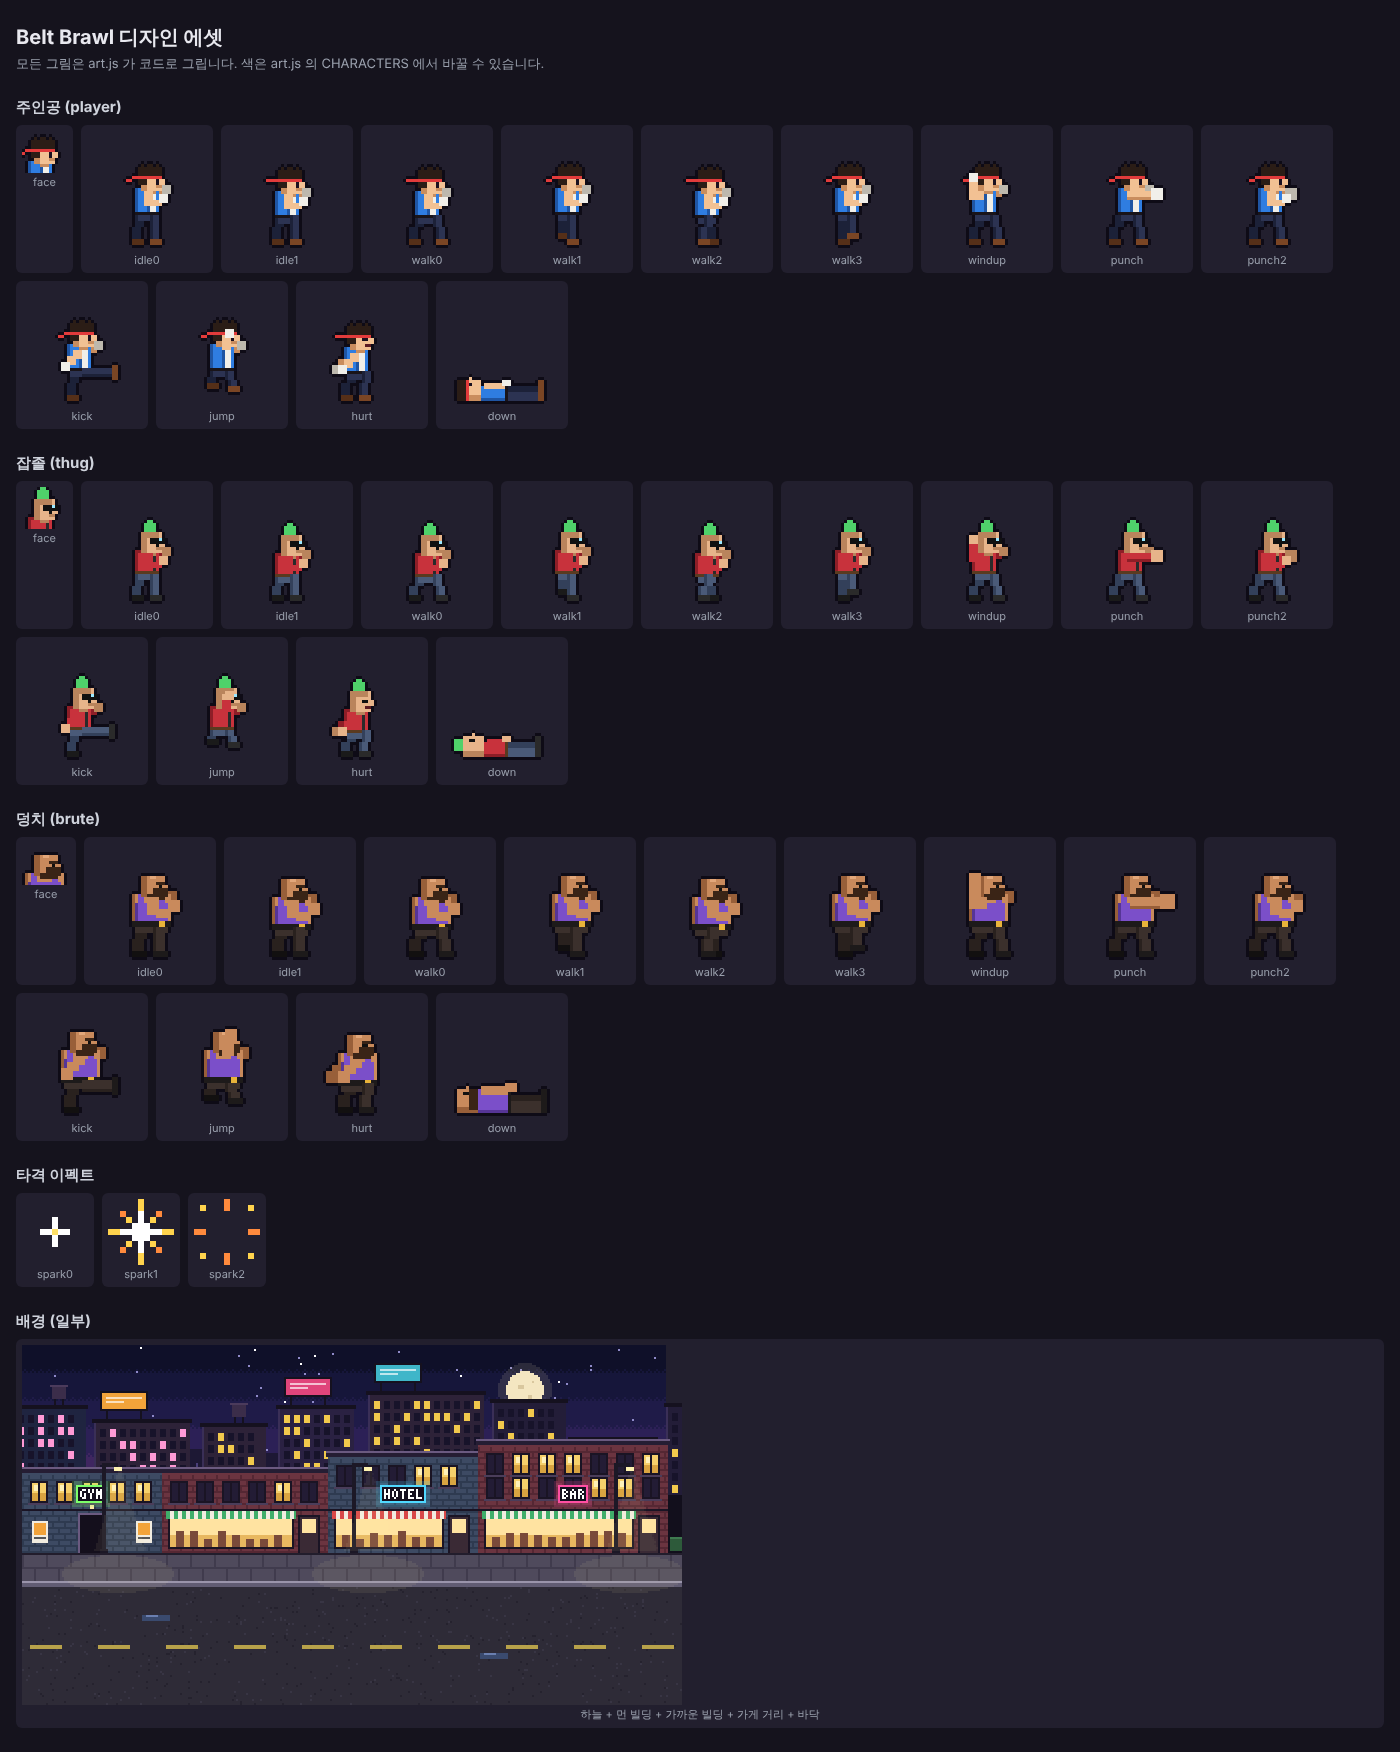
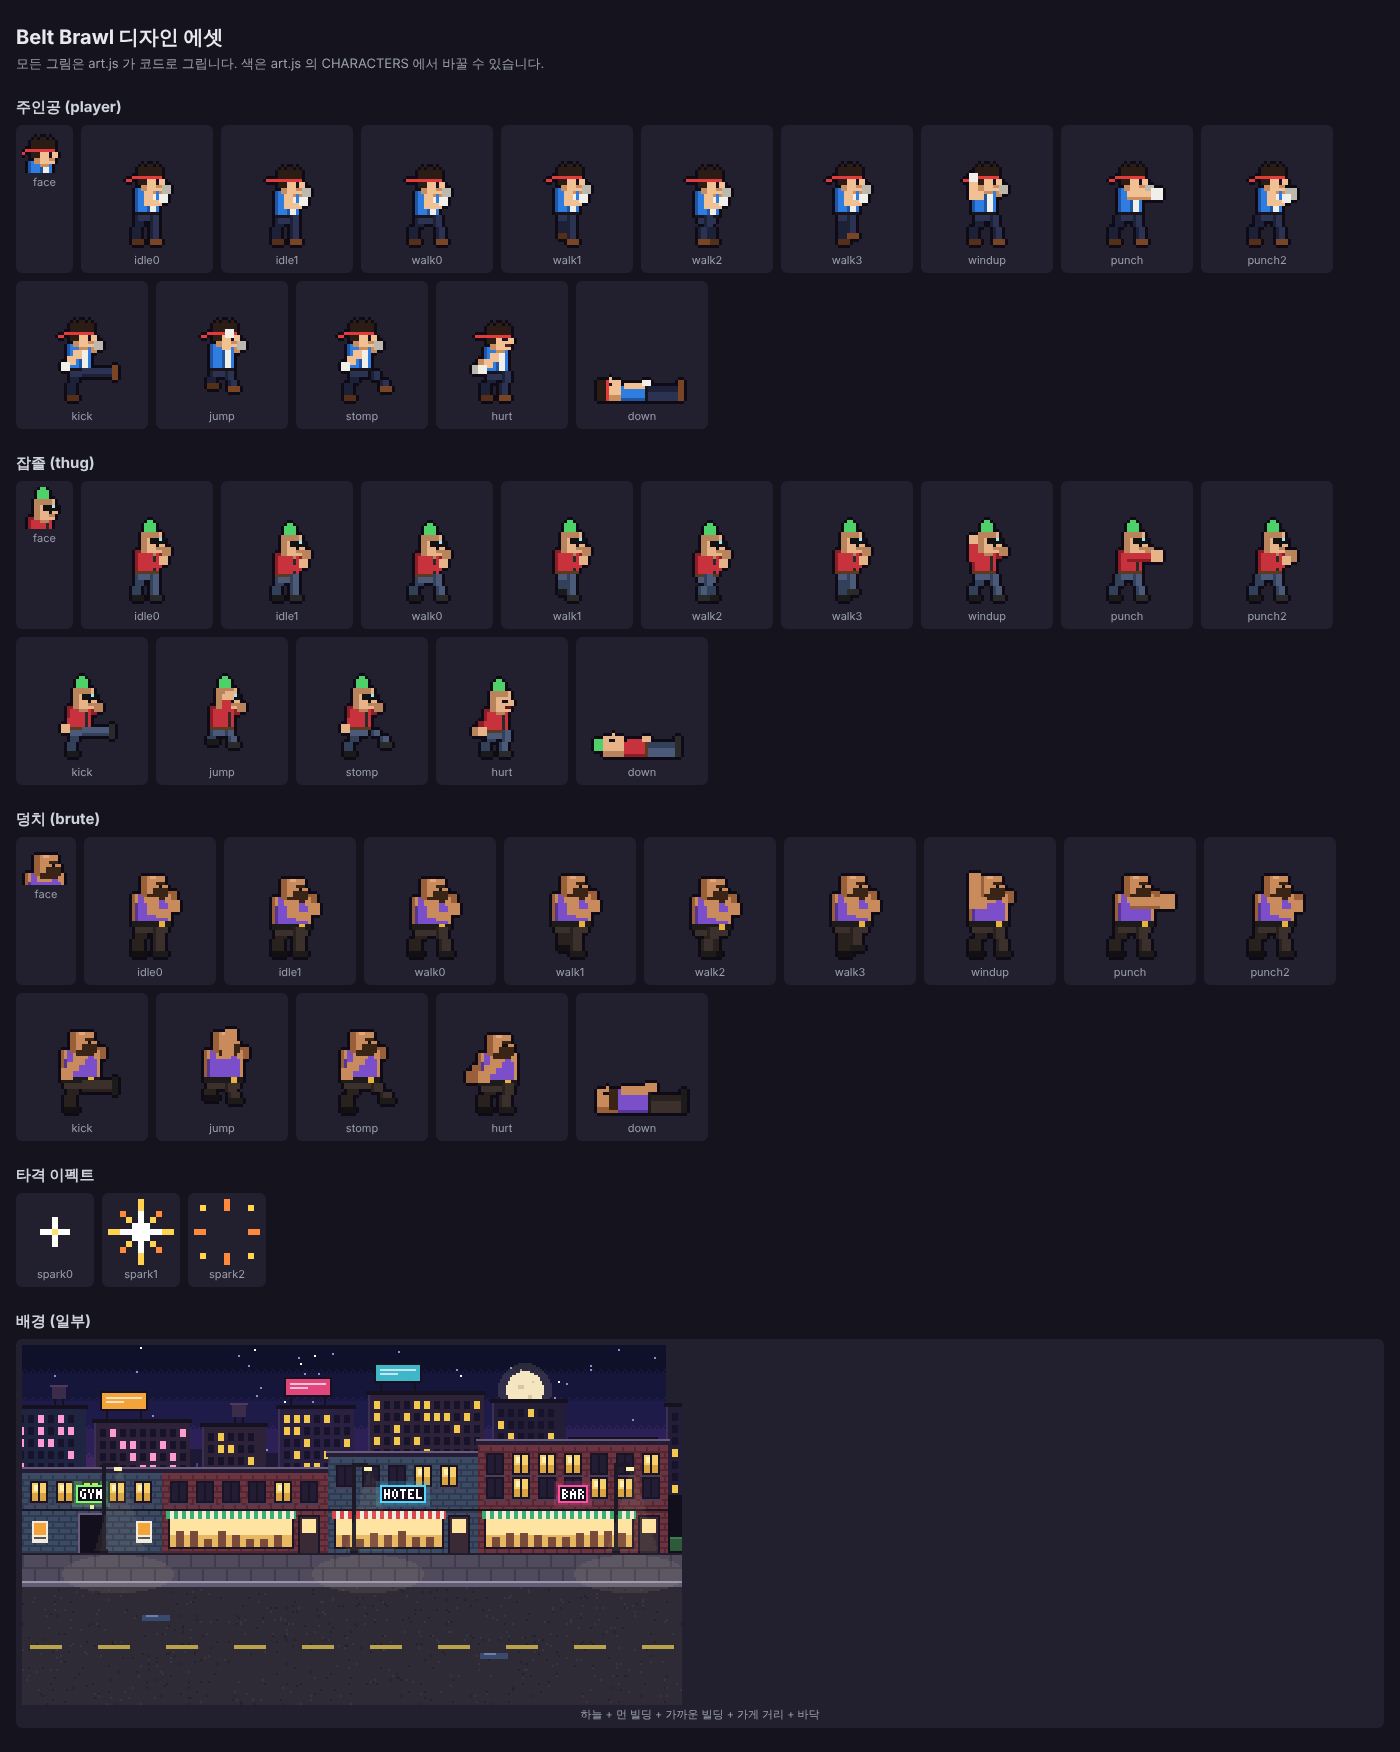
beltscroll 4단계 후속: 오너 결정 반영 (director 검수 전)
- 화면에 안 들어온 적·주인공과 겹친 적은 공격 준비 안 함, 접근 위치를 화면 안 옆자리로
- 추가타 내려찍기 포즈(art.js stomp) 추가
- 점프 공격 명중 뒤 공중 Z → 착지 경직 끝에 1타
- CLAUDE.md 사거리 여유 규칙에 공격 예고 중인 적 예외, decisions.md 6건, 점검표 후속

Claude-Session: https://claude.ai/code/session_0145PX3tFn2de4wdGysM1gpi

diff --git a/beltscroll/index.html b/beltscroll/index.html
@@ -216,7 +216,7 @@ const ENEMY_AI = {
 const GETUP_INVULN = 20;   // 일어난 뒤 무적 프레임 (적·주인공)
 const LANDING_LAG = 6;     // 점프 착지 후 아무것도 못 하는 프레임 (점프가 공짜 회피가 되지 않게)
 // 쓰러진 적 추가타: 아래 + Z. 다운당 1회, 다운 시간을 늘리지 않는다
-const STOMP = { pose: 'kick', prep: 6, active: 4, recover: 10, reach: 48, dmg: 10, step: 0, heavy: false, otg: true };
+const STOMP = { pose: 'stomp', prep: 6, active: 4, recover: 10, reach: 48, dmg: 10, step: 0, heavy: false, otg: true };
 // 점프 공격: 공중에서 Z. 점프당 1회. 준비 뒤 착지할 때까지 발을 뻗고 있고 처음 맞는 순간 1번 판정 (heavy, 넘어뜨림)
 const JUMP_KICK = { prep: 3, reach: 50, zReach: 75, dmg: 14 };
 
@@ -485,6 +485,7 @@ function update() {
     slide(p);
   }
   // 선입력: 판정 프레임부터 공격이 끝날 때까지 누른 공격을 기억했다가 끝나는 즉시 다음 타로 (히트스톱 중에도 포착)
+  if (hit('KeyZ', 'KeyJ') && p.z > 0 && p.jumpKick && p.jumpKick.hit) p.buffered = true;   // 점프 공격이 맞은 뒤 공중에서 누른 Z → 착지 경직 끝에 1타
   if (hit('KeyZ', 'KeyJ') && p.attack > 0) {
     const a = p.move;
     if (p.attack <= attackTotal(a) - a.prep) p.buffered = true;
@@ -551,7 +552,9 @@ function update() {
     e.dir = dx > 0 ? 1 : -1;
 
     // 플레이어 옆 자리(좌 또는 우)로 접근
-    const wantX = p.x - e.dir * ENEMY_STOP;
+    // 주인공 옆자리로 접근. 그 자리가 화면 밖이면 반대쪽 옆자리로 (화면 밖에서 서성이거나 주인공과 겹쳐 서지 않게)
+    let wantX = p.x - e.dir * ENEMY_STOP;
+    if (wantX < cam + 20 || wantX > cam + W - 20) wantX = p.x + e.dir * ENEMY_STOP;
     const ddx = wantX - e.x;
     // 주인공 공격의 회수 구간·착지 경직에만 빨라진다 (헛손질을 노린다)
     const recovering = (p.attack > 0 && p.attack <= ENEMY_AI.punishWindow) || p.landLag > 0;   // 착지 경직도 회수 구간
@@ -566,7 +569,7 @@ function update() {
     const alive = enemies.filter(o => !o.dead).length;
     const attackers = enemies.filter(o => !o.dead && o.attack > 0).length;
     const maxA = alive >= ENEMY_AI.crowdSize ? ENEMY_AI.maxAttackersCrowd : ENEMY_AI.maxAttackers;
-    if (Math.abs(dx) <= ENEMY_AI.attackStart && Math.abs(dy) < 16 && e.cooldown <= 0 && e.invuln === 0 && p.down === 0 && attackers < maxA) {   // 기상 무적 중엔 공격도 안 한다
+    if (Math.abs(dx) <= ENEMY_AI.attackStart && Math.abs(dx) >= ENEMY_AI.lungeMinGap && Math.abs(dy) < 16 && e.cooldown <= 0 && e.invuln === 0 && e.entered && p.down === 0 && attackers < maxA) {   // 화면에 들어온 적만, 주인공과 겹쳐 있지 않을 때만, 기상 무적 중엔 안 함
       e.dir = dx > 0 ? 1 : -1;
       e.attack = e.windup;
       e.cooldown = 90 + Math.floor(Math.random() * 60);

diff --git a/beltscroll/art.js b/beltscroll/art.js
@@ -85,6 +85,7 @@ const ART = (() => {
     punch2: { near: [3, 0],  far: [-3, 0], arm: 'guard',  farArm: 'punch', lean: 1 },
     kick:   { near: 'kick',  far: [-2, 0], arm: 'back',   farArm: 'guard', lean: -1 },
     jump:   { near: [2, 3],  far: [-2, 4], arm: 'up',     farArm: 'guard' },
+    stomp:  { near: [6, 3],  far: [-3, 0], arm: 'back',   farArm: 'guard', lean: -1 },   // 쓰러진 적 내려찍기 (4단계 추가)
     hurt:   { near: [-1, 0], far: [-4, 0], arm: 'back',   farArm: 'back',  lean: -2, bob: 1, face: 'hurt' },
   };
 

diff --git a/beltscroll/docs/stage4-overlap.md b/beltscroll/docs/stage4-overlap.md
@@ -21,3 +21,12 @@ director 1차 검수(조건부 통과) 뒤 코드와 대조해 고쳤다.
 아직 처리 안 한 겹침 (오너 판단 대기): 화면에 아직 안 들어온 적(`entered=false`)도 공격 준비·돌진을 할 수 있다 → 보이지 않는 적에게 맞을 수 있음. 시야 폭(검은 띠) 결정과 함께 오너 보고에 올림.
 
 위치를 바꾸는 줄 실행 순서: 주인공 이동 → 주인공 전진 → 주인공 미끄러짐 → 주인공 화면 제한 → 적마다 [미끄러짐 → 화면 제한 → (공격 중) 돌진 → 화면 제한 → (걷기) 이동 → 화면 제한] → 적끼리 밀기 → 적 화면 제한.
+
+## 4단계 후속 (오너 결정 반영, 2026-10-27)
+
+| 새 상태 | 설정 / 진행 / 비움 | 그 상태 중 입력 | 그 캐릭터 공격 | 겹침 처리 | 증명 |
+|---|---|---|---|---|---|
+| 적 접근 위치 화면 안 제한 | 매 프레임 접근 목표 계산 | — | — | 주인공 옆자리가 화면 밖이면 반대쪽 옆자리로 (주인공과 겹쳐 서지 않게) / 화면 제한 `keepOnScreen` 와 별개로 목표만 바꿈 | s4f #1, #2 |
+| 안 들어온 적 공격 금지 (`entered` 전) | 공격 준비 시작 조건 | — | **화면에 들어오기 전엔, 그리고 주인공과 20px 안으로 겹쳐 있을 땐 공격 준비 안 함** (먼저 옆자리로 비켜섬) | 동시 공격 수에 안 셈(준비 자체를 안 하니까) / 웨이브 시작 시 적은 화면 밖에서 등장 | s4f #1 |
+| 점프 공격 명중 뒤 공중 Z 선입력 | 점프 공격 명중 후 공중에서 Z (히트스톱 중 포함) / — / 공격 시작·피격 | 공중 Z → 기억 | 착지 경직 끝에 1타 | 착지 경직 선입력과 같은 길로 나감 / 공중에서 맞으면 피격이 비움 / 명중 전 공중 Z 는 지금처럼 무시(점프당 1회) | s4f #3 |
+| 추가타 포즈 `stomp` | 추가타 타격·회수 초반 | — | — | 준비 구간은 기존 규칙대로 windup / 그림 구조·픽셀 크기 그대로, 포즈 1개 추가 | 화면 확인 |

diff --git a/beltscroll/CLAUDE.md b/beltscroll/CLAUDE.md
@@ -22,7 +22,7 @@
 - art.js에 이미 있는 포즈(예: windup)를 먼저 찾아 쓰고, 새 포즈는 꼭 필요할 때만 만든다.
 
 ## 4. 손맛 설계 규칙과 검수
-- 사거리 여유 규칙: 적이 플레이어 앞에서 자연스럽게 멈추는 거리와 약공격 사거리 사이에 8px 이상 여유를 둔다. 제자리 연타가 헛스윙하면 버그다.
+- 사거리 여유 규칙: 적이 플레이어 앞에서 자연스럽게 멈추는 거리와 약공격 사거리 사이에 8px 이상 여유를 둔다. 제자리 연타가 헛스윙하면 버그다. 단, 공격을 예고 중인 적(예고 시작 거리 `ENEMY_AI.attackStart`)은 예외다 — 한 걸음 들어가 치거나 물러나 피하는 상황이다 (2026-10-27 오너 결정).
 - 넉백은 비율이 아니라 역할로 정한다: 약공격은 적이 다음 타 사거리 안에 남는 거리, 피니시(3타·점프 공격·사망 타격)는 확실히 날아가는 거리.
 - 흔들림은 무작위 떨림이 아니라 타격 방향으로 한 번 밀린 뒤 돌아오는 카메라 킥으로 한다. 무작위 떨림은 폭발 같은 연출에만 쓴다.
 - 보고할 때 타격감은 숫자로 적는다: 히트스톱 프레임 수, 카메라 킥 세기·지속, 넉백 거리.

diff --git a/beltscroll/docs/decisions.md b/beltscroll/docs/decisions.md
@@ -19,3 +19,9 @@
 - 2026-10-27 / 오너 요청: 잡아 던지기 기술이 있으면 좋겠다. (범위·단계 배치는 오너 확인 중)
 - 2026-10-27 / 잡아 던지기: 4단계 뒤 별도 단계로 넣는다 (잡기 = 적에게 붙어 앞으로 밀기, 잡은 상태 Z = 무릎치기, 점프 버튼 = 던지기 안).
 - 2026-10-27 / 4단계 지금 시작.
+- 2026-10-27 / 화면에 아직 안 들어온 적은 공격하지 못하게 하고, 접근 위치를 화면 안으로 제한한다. 휴대폰 좌우 검은 띠: 16:9 유지(시야 폭 그대로).
+- 2026-10-27 / 추가타용 새 포즈 1개(내려찍기)를 art.js에 허용한다.
+- 2026-10-27 / 착지 경직을 모든 점프에 적용하는 해석 유지.
+- 2026-10-27 / CLAUDE.md 사거리 여유 규칙에 "공격 예고 중인 적은 예외" 덧붙임.
+- 2026-10-27 / 점프 공격 명중 뒤 공중에서 누른 Z를 기억해 착지 경직 끝에 바로 1타.
+- 2026-10-27 / 추가타 가능 시간(약 0.37초)은 오너 체감 뒤 결정.
